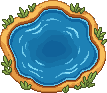
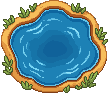
deploy lun 17/08/2026 20:27:30,61

diff --git a/public/game/boot.js b/public/game/boot.js
@@ -138,8 +138,8 @@ class BootScene extends Phaser.Scene {
   preload() {
     // ATLAS: todos los sprites del mundo en 2 archivos (mucho más liviano para el server free).
     // Si el atlas no llega, ensureAll() baja los archivos sueltos como respaldo.
-    this.load.image("__atlas", "assets/atlas.png?v=46");
-    this.load.json("__atlasmap", "assets/atlas.json?v=46");
+    this.load.image("__atlas", "assets/atlas.png?v=47");
+    this.load.json("__atlasmap", "assets/atlas.json?v=47");
 
     // No hay barra propia: la pantalla de carga es UNA sola, la del HTML, y le pasamos el avance.
     // (Antes había dos barras seguidas y el juego "aparecía" antes de estar listo.)

diff --git a/public/index.html b/public/index.html
@@ -1095,7 +1095,7 @@
     // 15/8: VERSIÓN DE BUILD — rompe la caché del navegador en cada deploy (sin esto, el
     // jugador seguía corriendo el state.js viejo aunque el servidor tuviera el nuevo).
     // deploy.bat la actualiza sola (busca GF_BUILD y pone la fecha/hora del deploy).
-    const GF_BUILD = "20260817-2019";
+    const GF_BUILD = "20260817-2027";
     const files = ["game/config.js","game/nav.js","game/audio.js","game/state.js","game/save.js","game/ui.js","game/boot.js",
                    "game/farm.js","game/forest.js","game/plaza.js","game/main.js","game/update.js"];
     let i = 0;

diff --git a/tools/arreglar-laguna.py b/tools/arreglar-laguna.py
@@ -1,0 +1,109 @@
+# CERRAR LA ORILLA IZQUIERDA DE LA LAGUNA (17/8)
+#
+# pond.png venía con la forma TOCANDO el borde izquierdo del lienzo: la orilla quedaba
+# seccionada en plano, como si alguien hubiera recortado el PNG un poco corto. Se veía como
+# una laguna "cortada" y no había forma de arreglarlo desde el código, porque el corte estaba
+# en el arte.
+#
+# Esto no inventa dibujo nuevo: ensancha el lienzo a la izquierda y PROLONGA las filas que
+# quedaron abiertas, con un perfil de media elipse para que el contorno cierre redondo. Cada
+# fila se extiende con su propio color, tomado del píxel que quedó al borde, y el píxel más
+# externo se oscurece para reponer la línea de contorno que tiene el resto de la orilla.
+#
+#   python3 tools/arreglar-laguna.py          # arregla y guarda
+#   python3 tools/arreglar-laguna.py --ver    # solo informa, no escribe
+import os
+import shutil
+import sys
+
+from PIL import Image
+
+RAIZ = os.path.dirname(os.path.dirname(os.path.abspath(__file__)))
+SRC = os.path.join(RAIZ, "public", "assets", "farm", "pond.png")
+COPIA = os.path.join(RAIZ, "public", "assets", "farm", "pond_original.png")
+
+
+def main():
+    im = Image.open(SRC).convert("RGBA")
+    W, H = im.size
+    px = im.load()
+
+    xL = []
+    for y in range(H):
+        fila = [x for x in range(W) if px[x, y][3] > 40]
+        xL.append(fila[0] if fila else None)
+    abiertas = [y for y in range(H) if xL[y] == 0]
+    if not abiertas:
+        print("la orilla ya cierra sola: no hay nada que hacer")
+        return
+    y0, y1 = min(abiertas), max(abiertas)
+    print("filas cortadas contra el borde: %d..%d  (%d filas)" % (y0, y1, len(abiertas)))
+
+    # PROLONGAR LA CURVA REAL, no inventar una forma. La primera versión metía una media elipse
+    # y salía un nudo: la elipse moría de golpe contra un contorno que ya venía retrocediendo.
+    # Ahora se toman las filas sanas de arriba y de abajo del corte, se ajusta la parábola que
+    # describe su contorno  xL(y) = a*(y - yc)^2 + b  y se continúa esa misma curva por dentro
+    # del corte. Donde la curva predice una x negativa, eso es exactamente lo que falta.
+    K = 7
+    arriba = [(y, xL[y]) for y in range(max(0, y0 - K), y0) if xL[y] is not None]
+    abajo = [(y, xL[y]) for y in range(y1 + 1, min(H, y1 + 1 + K)) if xL[y] is not None]
+    muestras = arriba + abajo
+    if len(muestras) < 4:
+        print("no hay contorno sano suficiente a los lados del corte")
+        return
+    yc = (y0 + y1) / 2.0
+    # mínimos cuadrados sobre  x = a*u^2 + b   con  u = y - yc
+    su4 = sum((y - yc) ** 4 for y, _ in muestras)
+    su2 = sum((y - yc) ** 2 for y, _ in muestras)
+    n = len(muestras)
+    sxu2 = sum(x * (y - yc) ** 2 for y, x in muestras)
+    sx = sum(x for _, x in muestras)
+    det = su4 * n - su2 * su2
+    if abs(det) < 1e-6:
+        print("el contorno no describe una curva utilizable")
+        return
+    a_c = (sxu2 * n - sx * su2) / det
+    b_c = (su4 * sx - su2 * sxu2) / det
+    faltan = [max(0.0, -(a_c * (y - yc) ** 2 + b_c)) for y in range(y0, y1 + 1)]
+    EXT = int(round(max(faltan))) + 1
+    print("curva del contorno: x = %.4f*(y-%.1f)^2 + %.2f  →  falta hasta %.1f px" % (a_c, yc, b_c, max(faltan)))
+    print("se ensancha el lienzo %d px" % EXT)
+
+    nuevo = Image.new("RGBA", (W + EXT, H), (0, 0, 0, 0))
+    nuevo.alpha_composite(im, (EXT, 0))
+    npx = nuevo.load()
+
+    # se prolongan también 2 filas por fuera del corte, para empalmar sin escalón
+    for y in range(max(0, y0 - 2), min(H, y1 + 3)):
+        pred = a_c * (y - yc) ** 2 + b_c
+        e = int(round(-pred))
+        if e <= 0:
+            continue
+        e = min(e, EXT)
+        base = px[0, y] if (xL[y] == 0) else px[max(0, xL[y] or 0), y]
+        if base[3] <= 40:
+            base = px[0, int(yc)]
+        for k in range(1, e + 1):
+            x = EXT - k
+            if x < 0:
+                break
+            if k >= e - 1:
+                npx[x, y] = (max(0, base[0] - 62), max(0, base[1] - 52), max(0, base[2] - 34), 255)
+            else:
+                npx[x, y] = base
+
+    if "--ver" in sys.argv:
+        print("(modo --ver: no se escribió nada)")
+        return
+
+    if not os.path.exists(COPIA):
+        shutil.copy2(SRC, COPIA)
+        print("copia del original en pond_original.png")
+    nuevo.save(SRC)
+    print("pond.png: %dx%d → %dx%d, orilla cerrada" % (W, H, nuevo.width, nuevo.height))
+    col0 = [y for y in range(nuevo.height) if nuevo.load()[0, y][3] > 40]
+    print("filas tocando el borde ahora: %d  (antes %d)" % (len(col0), len(abiertas)))
+
+
+if __name__ == "__main__":
+    main()

diff --git a/CHANGELOG.md b/CHANGELOG.md
@@ -3799,3 +3799,28 @@ como suelo en los dos sitios.
 
 Regla que sale de acá: **un color de relleno no se elige por lo que representa, sino por lo que
 va a aparecer al lado.** El fondo estaba junto al césped, no junto a las copas.
+
+### La laguna cortada estaba en el ARTE, no en el código
+Dirección insistió tres veces con *"laguna cortada"*, y tenía razón las tres. Yo busqué la causa en
+el código —proporción, atlas, profundidades, recortes— y no estaba ahí.
+
+`pond.png` venía con la forma **tocando el borde izquierdo del lienzo**: 12 filas de orilla
+seccionadas en plano, como si el PNG se hubiera recortado un poco corto. Ningún cambio de código
+podía arreglarlo porque el corte estaba dentro del sprite. Se ve de un vistazo ampliándolo x5 sobre
+césped, que es lo que había que hacer desde el principio en vez de teorizar.
+
+`tools/arreglar-laguna.py` lo cierra sin inventar dibujo: ensancha el lienzo y **prolonga la curva
+real del contorno**. Toma las filas sanas de arriba y abajo del corte, ajusta por mínimos cuadrados
+la parábola que describe la orilla (`x = 0,0247·(y−40,5)² − 0,26`) y la continúa por dentro del
+corte. Guarda `pond_original.png` como copia.
+
+La primera versión metía una media elipse y salía **un nudo**: la elipse moría de golpe contra un
+contorno que ya venía retrocediendo. Prolongar la curva que ya existe, en vez de superponerle una
+forma inventada, es lo que hace que empalme sin escalón.
+
+Atlas reconstruido (el sprite pasó de 107 a 108 px) y `?v=47`.
+
+**Lección del día, la más cara.** Ante un fallo visual, mi reflejo fue buscarlo en el código: probé
+proporción del sprite, integridad del atlas, orden de profundidades y recortes de cámara. El fallo
+estaba en el PNG y se veía **abriendo el PNG**. Cuando algo "se ve cortado", lo primero es mirar el
+arte a tamaño grande; el código es la segunda hipótesis, no la primera.
